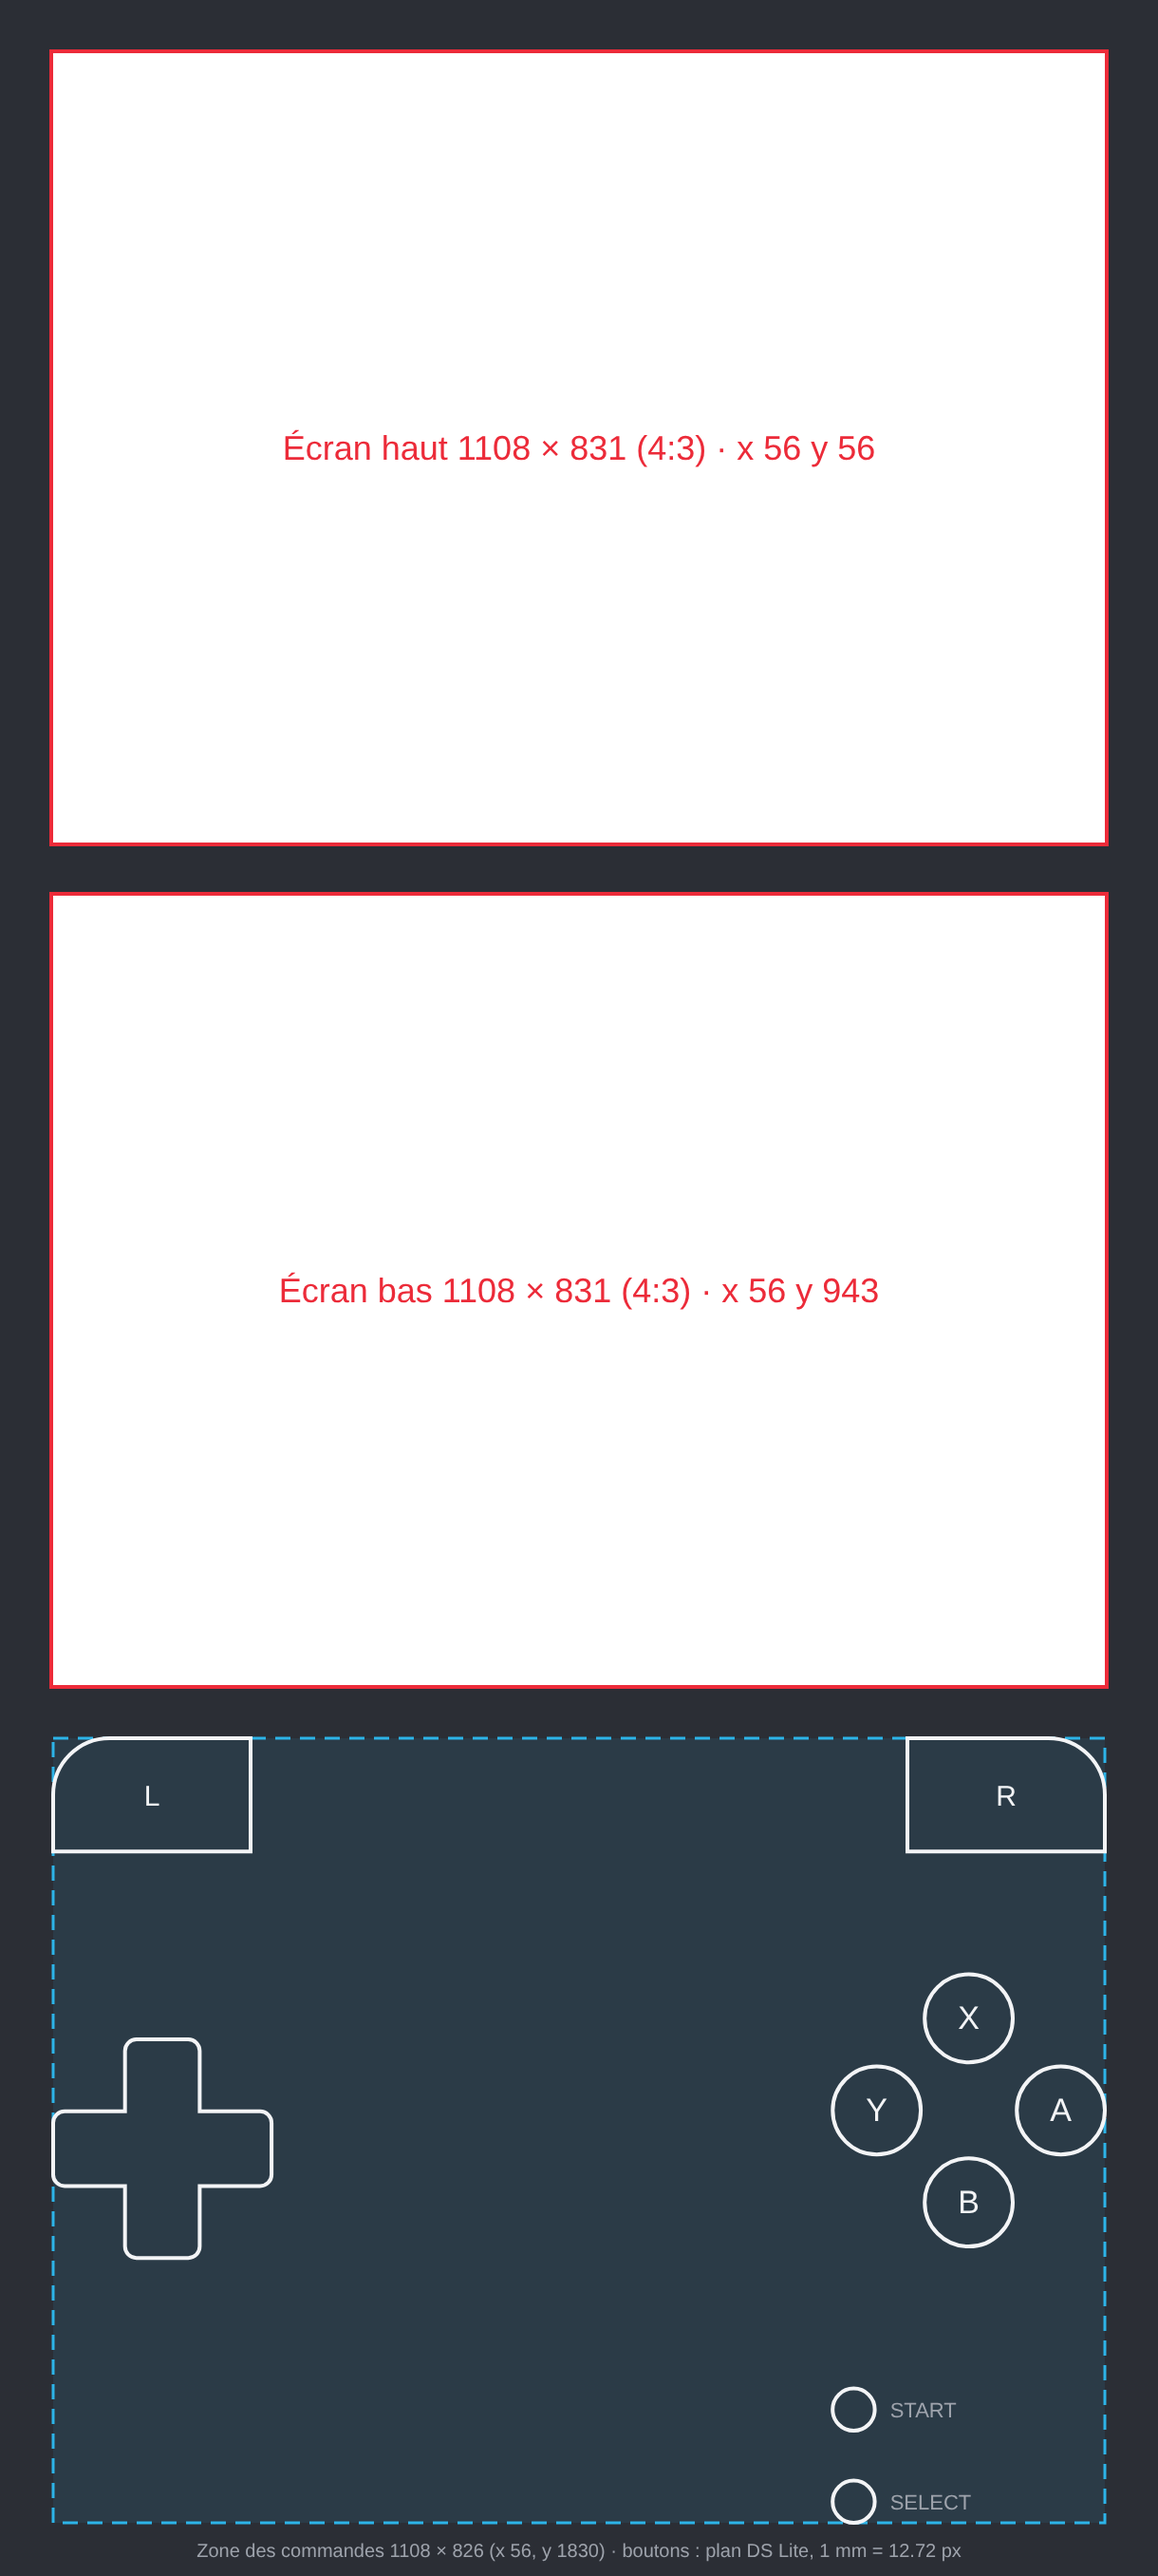
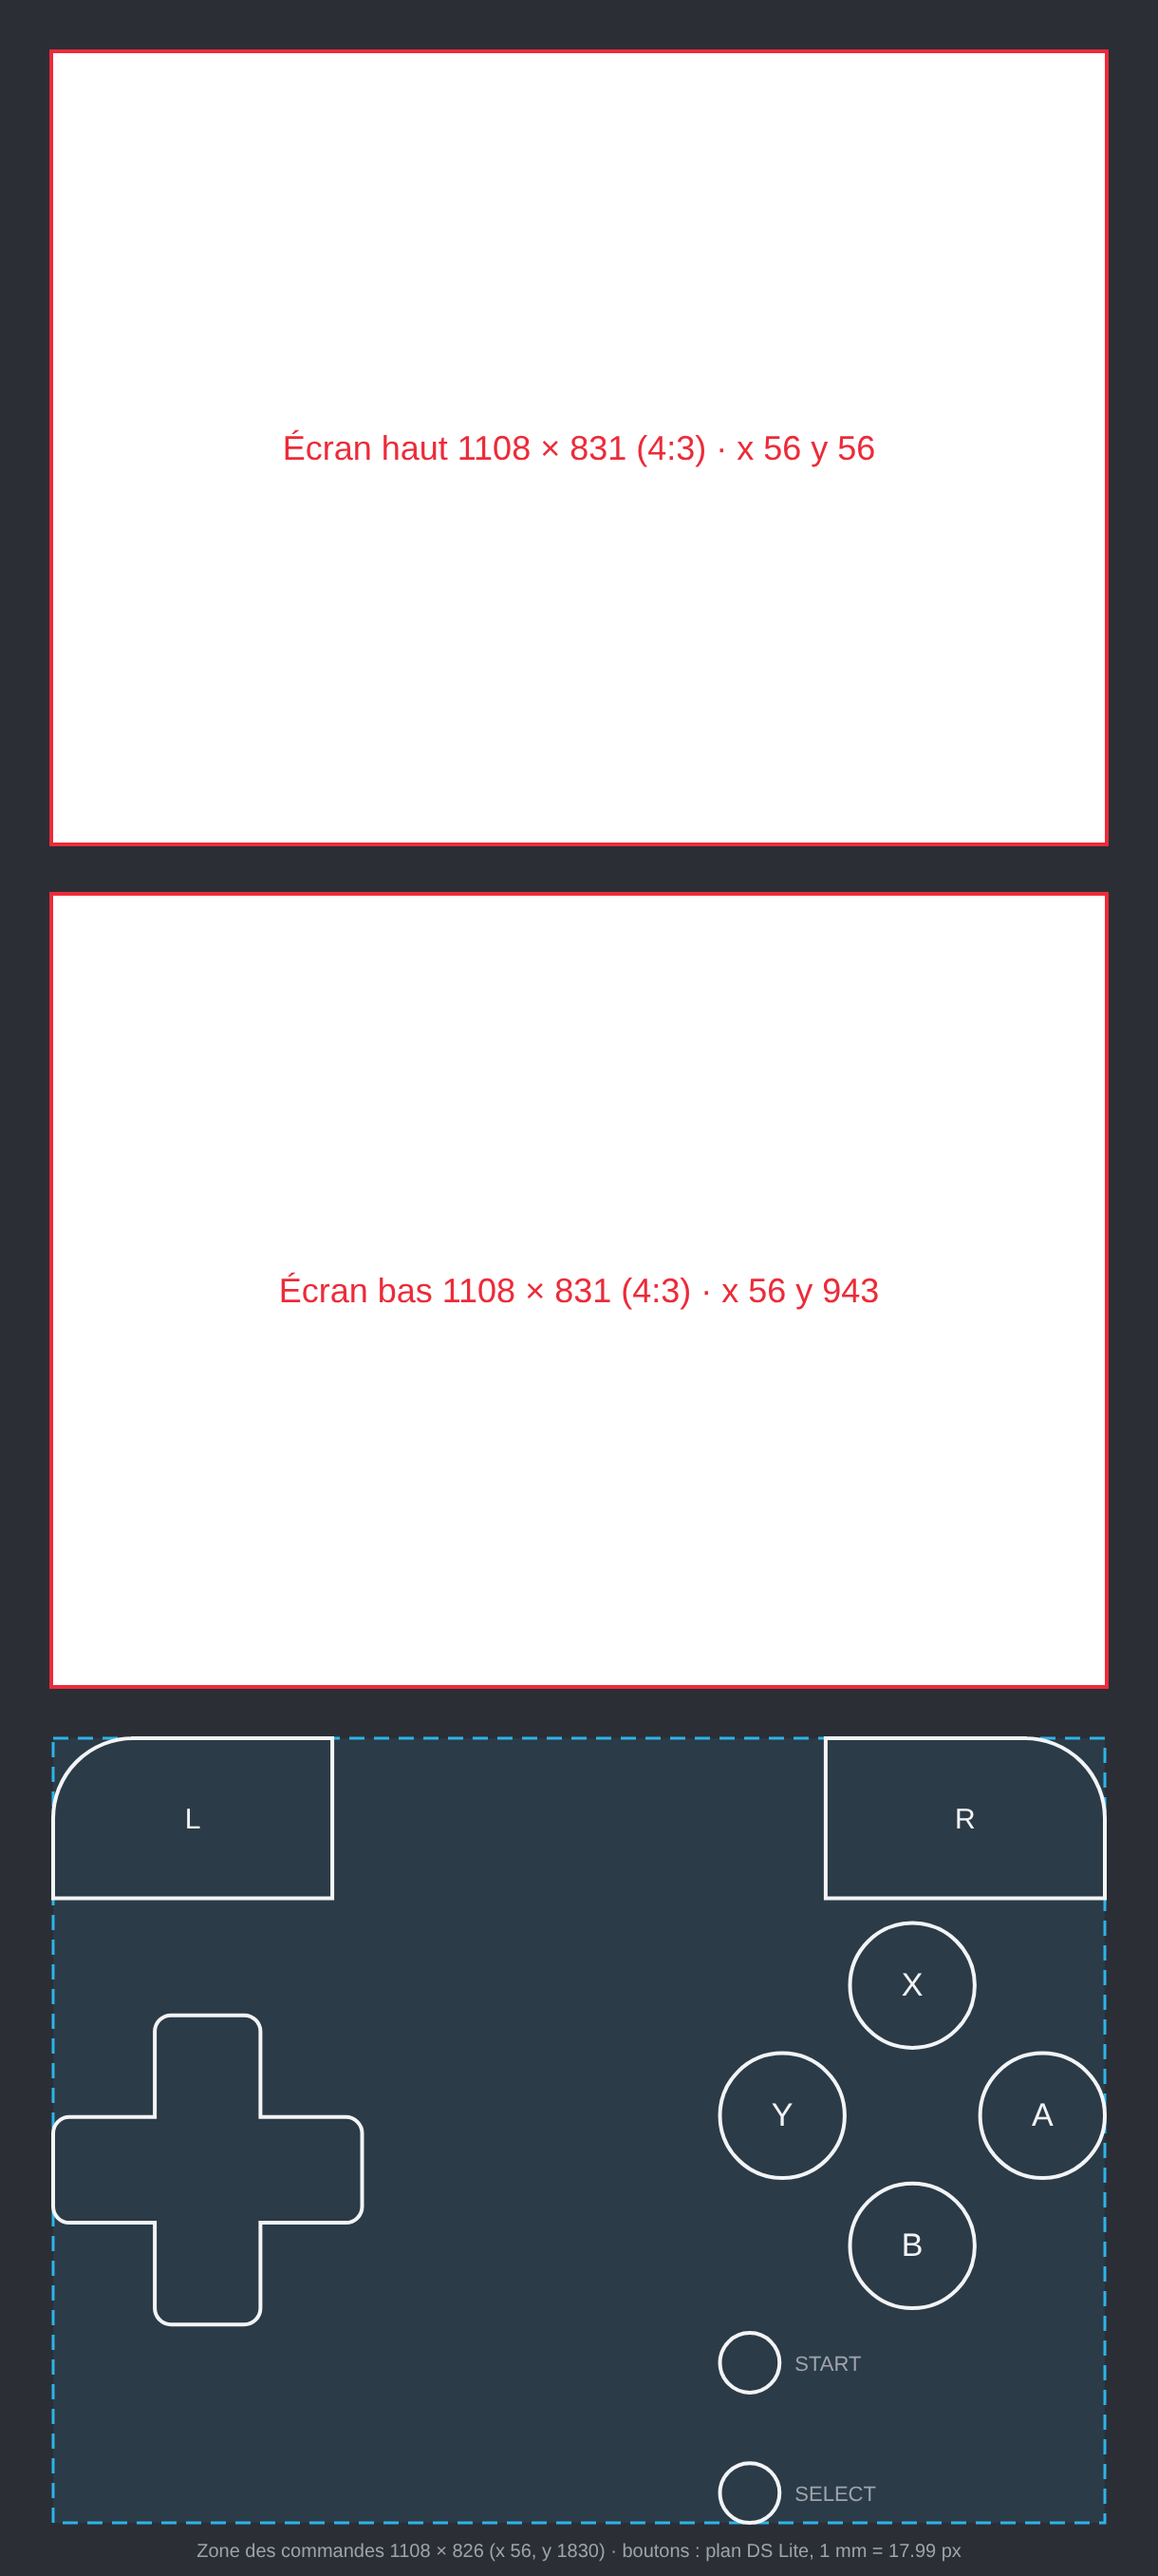
DS skin template: buttons at the real size relative to the screens
Owner's request. The scale now comes from the screen, not from the zone:
the DS Lite plan's lower LCD is 194 plan px wide (stroke centres 252..447,
~63 mm, the 3.12" 4:3 screen) and the template's screens are 1108, so
5.711 template px per plan px (17.99 px per mm, was 12.72). Every button
keeps its plan size at that scale.

At that scale the plan's vertical spacing (65 mm) does not fit the
826 px zone, so only the gaps shrink: SELECT ends at the zone's bottom
with START above it at the plan's spacing, ABXY is centred between the
shoulders and START (26 px either side), the D-pad keeps its plan offset
from ABXY. The Classic layout follows the template.

Claude-Session: https://claude.ai/code/session_01BPwFCEgf2UrCo7R4tPEQGE

diff --git a/melonDS-android/app/src/main/java/me/magnum/melonds/impl/layout/ClassicLayoutProvider.kt b/melonDS-android/app/src/main/java/me/magnum/melonds/impl/layout/ClassicLayoutProvider.kt
@@ -27,17 +27,17 @@ class ClassicLayoutProvider(private val defaultLayoutProvider: DefaultLayoutProv
         // Template rectangles (x, y, width, height), in template pixels
         val TOP_SCREEN = Rect(56, 56, 1108, 831)
         val BOTTOM_SCREEN = Rect(56, 943, 1108, 831)
-        val BUTTON_L = Rect(56, 1830, 208, 119)
-        val BUTTON_R = Rect(956, 1830, 208, 119)
-        val DPAD = Rect(56, 2147, 230, 230)
-        val BUTTONS = Rect(877, 2078, 287, 287)
-        val BUTTON_START = Rect(877, 2515, 44, 44)
-        val BUTTON_SELECT = Rect(877, 2612, 44, 44)
+        val BUTTON_L = Rect(56, 1830, 294, 168)
+        val BUTTON_R = Rect(870, 1830, 294, 168)
+        val DPAD = Rect(56, 2122, 326, 326)
+        val BUTTONS = Rect(758, 2025, 406, 406)
+        val BUTTON_START = Rect(758, 2456, 63, 63)
+        val BUTTON_SELECT = Rect(758, 2593, 63, 63)
 
         // Not on the DS: a row of four between L and R, so every input stays reachable
         const val UTILITY_SIZE = 96
         const val UTILITY_SPACING = 24
-        const val UTILITY_TOP = 1830 + (119 - UTILITY_SIZE) / 2
+        const val UTILITY_TOP = 1830 + (168 - UTILITY_SIZE) / 2
         val UTILITY_COMPONENTS = listOf(
             LayoutComponent.BUTTON_HINGE,
             LayoutComponent.BUTTON_TOGGLE_SOFT_INPUT,
